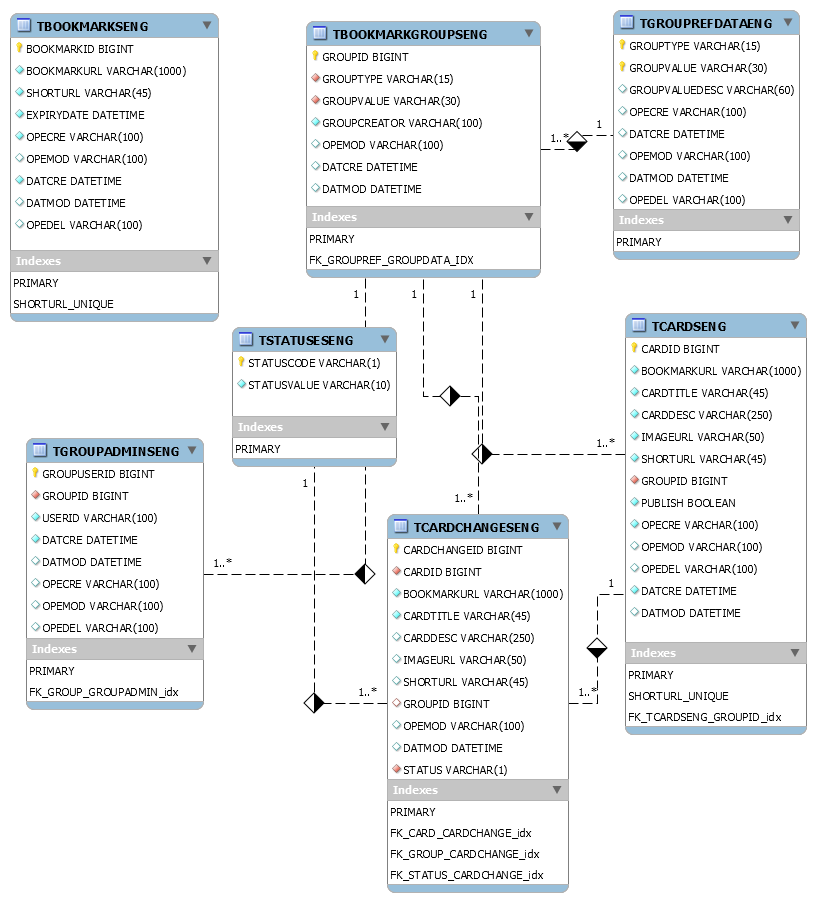
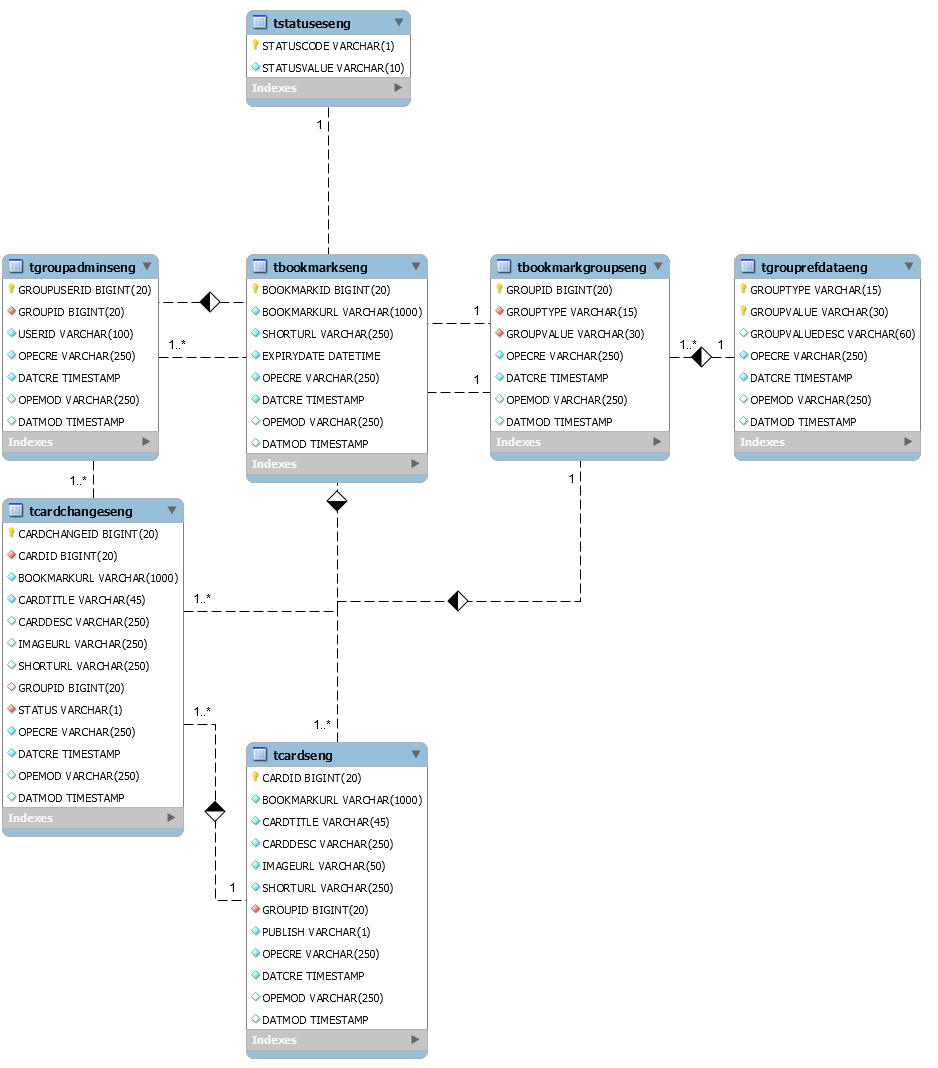
docs: updated to latest

diff --git a/README.md b/README.md
@@ -3,3 +3,5 @@ This repository contains all types of documents related to engineering stream pr
 
 Step 1: Data model preparation document added based on the given requirement. 
 Revision 1 in raw format for now and will revise later based on the progress.
+
+final script, erd diagram and mode file updated
